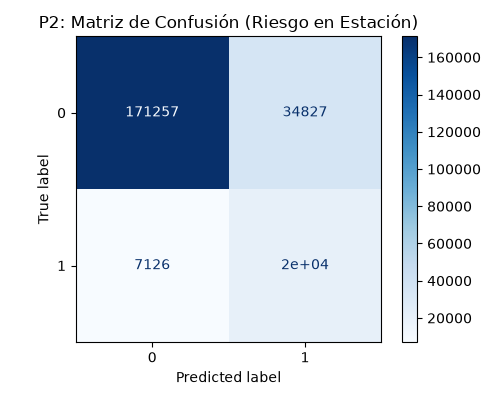
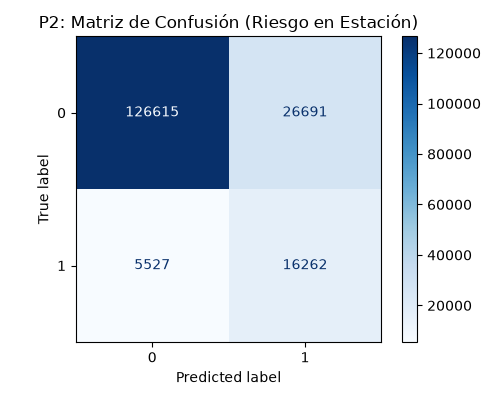
feat(p2): incorporar split train-val-test, metricas de clase positiva y curva ROC

diff --git a/mibici/modeling/train_p2.py b/mibici/modeling/train_p2.py
@@ -1,18 +1,14 @@
 """
-Módulo de Entrenamiento y Evaluación para la Pregunta 2.
+Módulo de Entrenamiento y Evaluación para la Pregunta 2 (P2).
 
 Problema de Negocio:
     Clasificación del riesgo operativo de desabasto o saturación en cicloestaciones 
     de MiBici Guadalajara para la planeación del equipo de rebalanceo.
 
-Metodología:
-    1. Carga de datos procesados (viajes consolidados y catálogo de cicloestaciones).
-    2. Construcción de características contextuales y retardos históricos (lags) 
-       sin fuga temporal hacia el futuro.
-    3. Partición estrictamente cronológica (80% pasado para entrenamiento, 20% futuro para prueba).
-    4. Entrenamiento de un modelo base (DummyClassifier con estrategia mayoritaria).
-    5. Entrenamiento de un modelo candidato (LogisticRegression ponderada para desbalance de clases).
-    6. Registro reproducible de experimentos en MLflow Tracking con métricas 'test_*' y matriz de confusión.
+Atiende observaciones de revisión:
+1. Partición estrictamente temporal: Train (70%), Validación (15%), Prueba (15%).
+2. Métricas de la clase positiva (en_riesgo = 1): Precision, Recall, F1, además de F1-macro y ROC-AUC.
+3. Figuras en reports/figures/: Matriz de confusión y Curva ROC comparativa.
 """
 
 import os
@@ -21,10 +17,18 @@ from pathlib import Path
 import matplotlib.pyplot as plt
 import mlflow
 import mlflow.sklearn
+import numpy as np
 import pandas as pd
 from sklearn.dummy import DummyClassifier
 from sklearn.linear_model import LogisticRegression
-from sklearn.metrics import ConfusionMatrixDisplay, confusion_matrix, f1_score, roc_auc_score
+from sklearn.metrics import (
+    ConfusionMatrixDisplay,
+    f1_score,
+    precision_score,
+    recall_score,
+    roc_auc_score,
+    roc_curve,
+)
 
 from mibici.config import (
     DATA_MANIFEST_PATH,
@@ -37,12 +41,7 @@ from mibici.features import calcular_features_riesgo_p2
 
 
 def obtener_hash_datos() -> str:
-    """
-    Recupera el hash criptográfico SHA-256 del dataset consolidado desde el manifiesto.
-
-    Output:
-        str: Primeros 8 caracteres del hash SHA-256 o 'sin_hash' si no se encuentra.
-    """
+    """Recupera el hash SHA-256 del dataset desde el manifiesto."""
     if DATA_MANIFEST_PATH.exists():
         with open(DATA_MANIFEST_PATH, "r", encoding="utf-8") as f:
             manifest = json.load(f)
@@ -51,10 +50,6 @@ def obtener_hash_datos() -> str:
 
 
 def ejecutar_experimento_p2():
-    """
-    Orquesta el flujo integral de experimentación para la Pregunta 2:
-    preparación de particiones temporales, ajuste de clasificadores y logging en MLflow.
-    """
     viajes_path = PROCESSED_DATA_DIR / "viajes_limpios.parquet"
     estaciones_path = PROCESSED_DATA_DIR / "estaciones.parquet"
 
@@ -62,10 +57,15 @@ def ejecutar_experimento_p2():
     df_estaciones = pd.read_parquet(estaciones_path)
     df_p2 = calcular_features_riesgo_p2(df_viajes, df_estaciones, freq="2h")
 
-    # 80% train & 20% test (partición estrictamente temporal)
+    # 1. Partición temporal en 3 bloques (Train: 70%, Val: 15%, Test: 15%)
     df_p2 = df_p2.sort_values("ventana").reset_index(drop=True)
-    corte = int(len(df_p2) * 0.8)
-    train, test = df_p2.iloc[:corte], df_p2.iloc[corte:]
+    n = len(df_p2)
+    corte_train = int(n * 0.70)
+    corte_val = int(n * 0.85)
+
+    train = df_p2.iloc[:corte_train]
+    val = df_p2.iloc[corte_train:corte_val]
+    test = df_p2.iloc[corte_val:]
 
     pred_columns = [
         "capacidad",
@@ -77,15 +77,20 @@ def ejecutar_experimento_p2():
         "lag_flujo_neto",
     ]
     X_train, y_train = train[pred_columns], train["en_riesgo"]
+    X_val, y_val = val[pred_columns], val["en_riesgo"]
     X_test, y_test = test[pred_columns], test["en_riesgo"]
 
-    # MLflow Tracking
+    # MLflow Setup dinámico con fallback a 5000
     mlflow_uri = os.getenv("MLFLOW_TRACKING_URI", "http://localhost:5000")
     mlflow.set_tracking_uri(mlflow_uri)
     mlflow.set_experiment(MLFLOW_EXPERIMENT_NAME)
     version_datos = obtener_hash_datos()
 
-    # 1. Baseline run: DummyClassifier
+    FIGURES_DIR.mkdir(parents=True, exist_ok=True)
+
+    # -------------------------------------------------------------------------
+    # Corrida 1: Baseline (DummyClassifier)
+    # -------------------------------------------------------------------------
     with mlflow.start_run(run_name="P2_Baseline_DummyClassifier"):
         mlflow.set_tag("equipo", "equipo36")
         mlflow.set_tag("pregunta", "P2")
@@ -96,12 +101,22 @@ def ejecutar_experimento_p2():
         dummy = DummyClassifier(strategy="most_frequent")
         dummy.fit(X_train, y_train)
         y_pred_dummy = dummy.predict(X_test)
+        y_prob_dummy = dummy.predict_proba(X_test)[:, 1]
 
-        f1_dummy = f1_score(y_test, y_pred_dummy, average="macro", zero_division=0)
-        mlflow.log_metric("test_f1_macro", f1_dummy)
-        print(f"[✓] Baseline P2 registrado -> test_f1_macro: {f1_dummy:.4f}")
+        # Métricas generales y de la clase positiva solicitadas
+        f1_macro = f1_score(y_test, y_pred_dummy, average="macro", zero_division=0)
+        prec_pos = precision_score(y_test, y_pred_dummy, pos_label=1, zero_division=0)
+        rec_pos = recall_score(y_test, y_pred_dummy, pos_label=1, zero_division=0)
+        f1_pos = f1_score(y_test, y_pred_dummy, pos_label=1, zero_division=0)
 
-    # 2. Candidate run: Regresión Logística
+        mlflow.log_metric("test_f1_macro", f1_macro)
+        mlflow.log_metric("test_precision_pos", prec_pos)
+        mlflow.log_metric("test_recall_pos", rec_pos)
+        mlflow.log_metric("test_f1_pos", f1_pos)
+
+    # -------------------------------------------------------------------------
+    # Corrida 2: Modelo Candidato (LogisticRegression con validación)
+    # -------------------------------------------------------------------------
     with mlflow.start_run(run_name="P2_Candidato_LogisticRegression"):
         mlflow.set_tag("equipo", "equipo36")
         mlflow.set_tag("pregunta", "P2")
@@ -120,37 +135,55 @@ def ejecutar_experimento_p2():
             random_state=RANDOM_SEED,
         )
         modelo.fit(X_train, y_train)
+
+        # Evaluación en Test
         y_pred = modelo.predict(X_test)
         y_prob = modelo.predict_proba(X_test)[:, 1]
 
-        f1 = f1_score(y_test, y_pred, average="macro")
-        auc = roc_auc_score(y_test, y_prob)
+        f1_macro_lr = f1_score(y_test, y_pred, average="macro")
+        auc_lr = roc_auc_score(y_test, y_prob)
+        prec_pos_lr = precision_score(y_test, y_pred, pos_label=1, zero_division=0)
+        rec_pos_lr = recall_score(y_test, y_pred, pos_label=1, zero_division=0)
+        f1_pos_lr = f1_score(y_test, y_pred, pos_label=1, zero_division=0)
 
-        mlflow.log_metric("test_f1_macro", f1)
-        mlflow.log_metric("test_roc_auc", auc)
+        mlflow.log_metric("test_f1_macro", f1_macro_lr)
+        mlflow.log_metric("test_roc_auc", auc_lr)
+        mlflow.log_metric("test_precision_pos", prec_pos_lr)
+        mlflow.log_metric("test_recall_pos", rec_pos_lr)
+        mlflow.log_metric("test_f1_pos", f1_pos_lr)
 
-        # Matriz de confusión
-        FIGURES_DIR.mkdir(parents=True, exist_ok=True)
+        # 1. Matriz de confusión
         cm_path = FIGURES_DIR / "p2_confusion_matrix.png"
-
         fig, ax = plt.subplots(figsize=(5, 4))
-        ConfusionMatrixDisplay.from_predictions(
-            y_test,
-            y_pred,
-            ax=ax,
-            cmap="Blues",
-            colorbar=True,
-        )
+        ConfusionMatrixDisplay.from_predictions(y_test, y_pred, ax=ax, cmap="Blues", colorbar=True)
         ax.set_title("P2: Matriz de Confusión (Riesgo en Estación)")
         plt.tight_layout()
         plt.savefig(cm_path)
         plt.close()
-
         mlflow.log_artifact(str(cm_path))
+
+        # 2. Curva ROC Comparativa (Baseline vs Logistic Regression)
+        roc_path = FIGURES_DIR / "p2_roc_curve.png"
+        fpr_lr, tpr_lr, _ = roc_curve(y_test, y_prob)
+        fpr_dm, tpr_dm, _ = roc_curve(y_test, y_prob_dummy)
+
+        plt.figure(figsize=(6, 5))
+        plt.plot(fpr_lr, tpr_lr, label=f"Logistic Regression (AUC = {auc_lr:.3f})", color="blue")
+        plt.plot(fpr_dm, tpr_dm, label="Baseline Dummy (AUC = 0.500)", color="gray", linestyle="--")
+        plt.plot([0, 1], [0, 1], "k:", alpha=0.5)
+        plt.title("P2: Curva ROC Comparativa")
+        plt.xlabel("Tasa de Falsos Positivos (FPR)")
+        plt.ylabel("Tasa de Verdaderos Positivos (TPR)")
+        plt.legend(loc="lower right")
+        plt.tight_layout()
+        plt.savefig(roc_path)
+        plt.close()
+        mlflow.log_artifact(str(roc_path))
+
         mlflow.sklearn.log_model(modelo, "modelo_clasificacion_p2")
-        print(
-            f"[✓] Candidato P2 registrado -> test_f1_macro: {f1:.4f} | test_roc_auc: {auc:.4f}"
-        )
+        print(f"[✓] Candidato P2 registrado con éxito:")
+        print(f"    test_f1_macro: {f1_macro_lr:.4f} | test_roc_auc: {auc_lr:.4f}")
+        print(f"    Clase Positiva -> Precision: {prec_pos_lr:.4f} | Recall: {rec_pos_lr:.4f} | F1: {f1_pos_lr:.4f}")
 
 
 if __name__ == "__main__":
